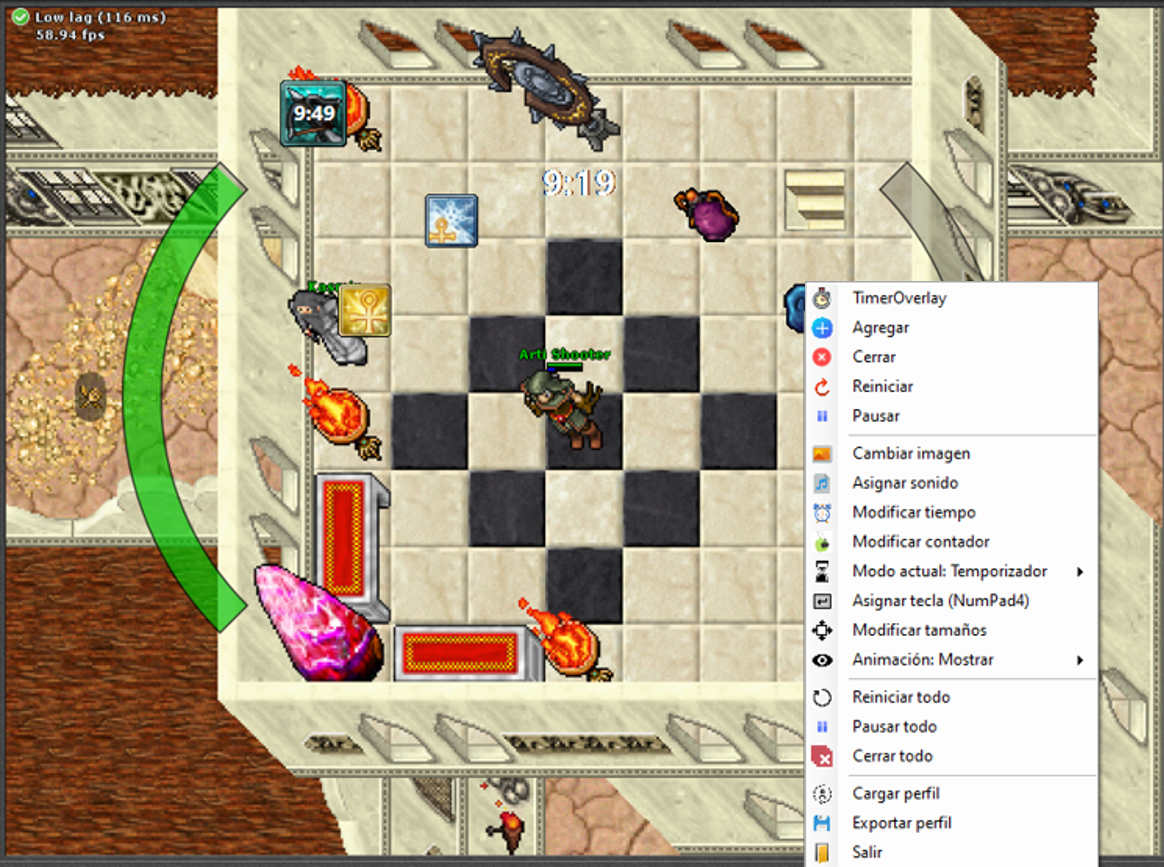
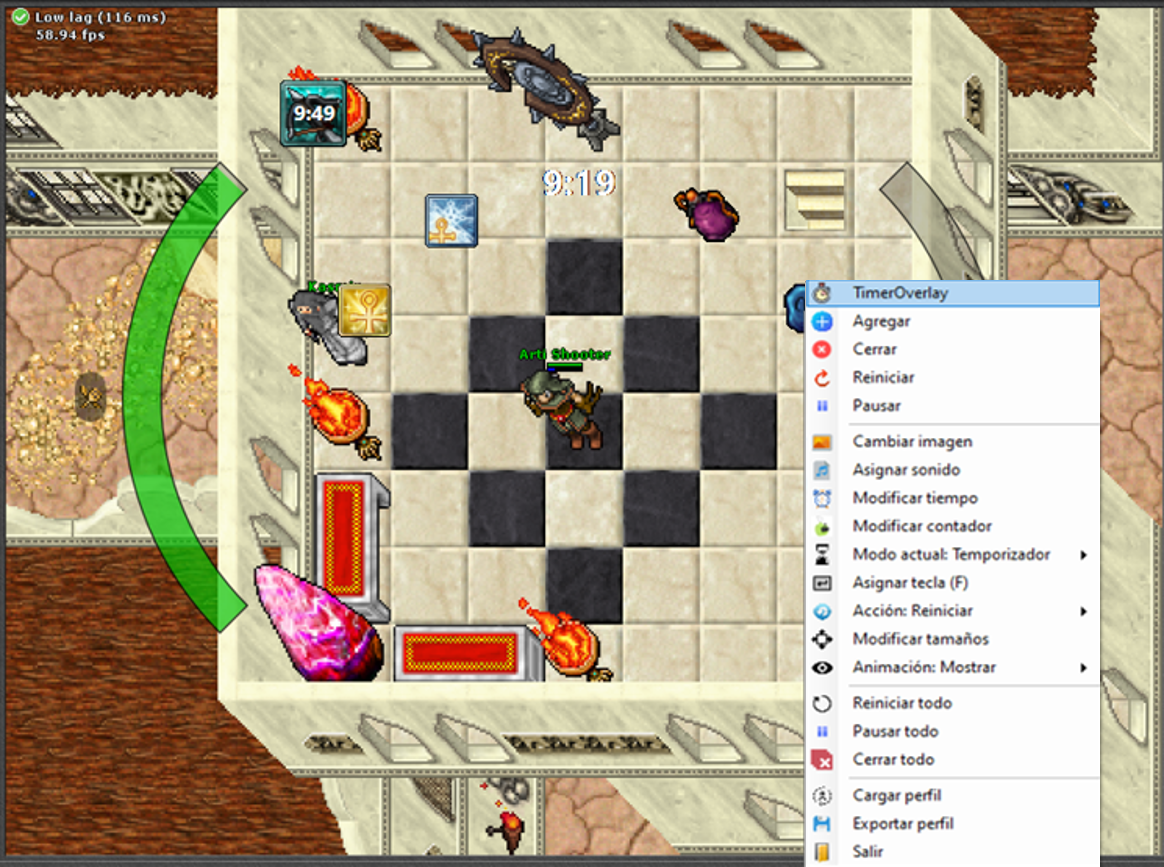
accion de reanudar pausar agregada

Changed region(s): [[0.6804, 0.3114, 0.9588, 0.9965], [0.9278, 0.6228, 0.9588, 0.7163], [0.9278, 0.4671, 0.9588, 0.5294]]

diff --git a/TimerOverlay/Form_TimerOverlay.cs b/TimerOverlay/Form_TimerOverlay.cs
@@ -42,6 +42,7 @@ namespace TimerOverlay
         private Keys teclaGlobal = Keys.None;
         private TipoFuncion tFuncion;
         private TipoAnimacion tAnimacion;
+        private TipoAccion tAccion;
 
         #region Constructores
         public Form_TimerOverlay(TimerData data)
@@ -83,7 +84,7 @@ namespace TimerOverlay
             }
             else
                 this.tFuncion = TipoFuncion.Temporizador;
-
+            
             // modo de animacion
             if (data.Animacion != null)
             {
@@ -91,6 +92,15 @@ namespace TimerOverlay
             }
             else
                 this.tAnimacion = TipoAnimacion.Ninguna;
+            
+            // modo de Accion
+            if (data.Accion != null)
+            {
+                this.tAccion = (TipoAccion)Enum.Parse(typeof(TipoAccion), data.Accion);
+            }
+            else
+                this.tAccion = TipoAccion.Reiniciar;
+
 
             this.teclaGlobal = (Keys)Convert.ToInt32(data.Tecla);
 
@@ -176,6 +186,7 @@ namespace TimerOverlay
             contextMenu.Items.Add(Menu_ModificarContador());
             contextMenu.Items.Add(Menu_CambiarModo());
             contextMenu.Items.Add(Menu_AsignarTecla());
+            contextMenu.Items.Add(Menu_CambiarAccion());
             contextMenu.Items.Add(Menu_ModificarTamaños());
             contextMenu.Items.Add(Menu_CambiarAnimacion());
 
@@ -188,7 +199,7 @@ namespace TimerOverlay
             contextMenu.Items.Add(Menu_CargarPerfil());
             contextMenu.Items.Add(Menu_ExportarPerfil());
             contextMenu.Items.Add(Menu_CerrarApp());
-
+            
             GlobalKeyboardHook.OnKeyPressed += GlobalKeyboardHook_OnKeyPressed;
             GlobalKeyboardHook.Start();
         }
@@ -271,10 +282,25 @@ namespace TimerOverlay
                     {
                         case TipoFuncion.Temporizador:
                         case TipoFuncion.Cronometro:
-                            if (estaEnCD)
-                                ReproduceSonido(sonidoCD);
-                            else
-                                Reiniciar();
+                            if (tAccion == TipoAccion.Reiniciar)
+                            {
+                                if(estaEnCD)
+                                    ReproduceSonido(sonidoCD);
+                                else
+                                    Reiniciar();
+                            }
+                            if (tAccion == TipoAccion.Pausar)
+                            {
+                                if (estaPausado)
+                                    Reanudar();
+                                else
+                                {
+                                    if (!timerRun.Enabled)
+                                        Reiniciar();
+                                    else
+                                        Pausar();
+                                }
+                            }
                             break;
                         case TipoFuncion.ContadorIncremental:
                             FormateaContador();
@@ -537,8 +563,9 @@ namespace TimerOverlay
                         Ancho = timer.ancho,
                         TamañoFuente = timer.tamFuente,
                         Animacion = timer.tAnimacion.ToString(),
-                        SonidoCD = timer.sonidoCD
-                    });
+                        SonidoCD = timer.sonidoCD,
+                        Accion = timer.tAccion.ToString()
+                    }); ;
                 }
             }
 
@@ -1305,19 +1332,6 @@ namespace TimerOverlay
 
             return aboutItem;
         }
-
-        private void InitializeComponent()
-        {
-            this.SuspendLayout();
-            // 
-            // Form_TimerOverlay
-            // 
-            this.ClientSize = new System.Drawing.Size(124, 84);
-            this.Name = "Form_TimerOverlay";
-            this.ResumeLayout(false);
-
-        }
-
         private ToolStripMenuItem Menu_CerrarCuadros()
         {
             var cerrartodos = new ToolStripMenuItem("Cerrar todo")
@@ -1401,6 +1415,52 @@ namespace TimerOverlay
 
             ActualizarTextoModo();
             return cambiarAnimacion;
+        }
+        private ToolStripMenuItem Menu_CambiarAccion()
+        {
+            var cambiarAccion = new ToolStripMenuItem("Cambiar acción");
+
+            // Subopciones
+            var mReiniciar = new ToolStripMenuItem("Reiniciar");
+            var mPausarReanudar = new ToolStripMenuItem("Pausar/Reanudar");
+
+            // Acción genérica para cambiar de modo
+            void CambiarAccion(TipoAccion accion)
+            {
+                tAccion = accion;
+                ActualizarTextoModo(); // si quieres que el texto cambie con el modo actual
+            }
+
+            // Eventos click de cada subopción
+            mReiniciar.Click += (s, e) => CambiarAccion(TipoAccion.Reiniciar);
+            mReiniciar.Image = Properties.Resources.iconoRestart;
+
+            mPausarReanudar.Click += (s, e) => CambiarAccion(TipoAccion.Pausar);
+            mPausarReanudar.Image = Properties.Resources.iconoPlayStop;
+
+            // Añadir subopciones al menú principal
+            cambiarAccion.DropDownItems.Add(mReiniciar);
+            cambiarAccion.DropDownItems.Add(mPausarReanudar);
+
+            // Actualizar texto/ícono si deseas reflejar el modo actual
+            void ActualizarTextoModo()
+            {
+                switch (tAccion)
+                {
+                    case TipoAccion.Reiniciar:
+                        cambiarAccion.Text = "Acción: Reiniciar";
+                        cambiarAccion.Image = Properties.Resources.iconoRestart;
+                        break;
+
+                    case TipoAccion.Pausar:
+                        cambiarAccion.Text = "Acción: Reanudar";
+                        cambiarAccion.Image = Properties.Resources.iconoPlayStop;
+                        break;
+                }
+            }
+
+            ActualizarTextoModo();
+            return cambiarAccion;
         }
         #endregion               
     }

diff --git a/TimerOverlay/Properties/Resources.Designer.cs b/TimerOverlay/Properties/Resources.Designer.cs
@@ -223,6 +223,16 @@ namespace TimerOverlay.Properties {
         /// <summary>
         ///   Looks up a localized resource of type System.Drawing.Bitmap.
         /// </summary>
+        internal static System.Drawing.Bitmap iconoPlayStop {
+            get {
+                object obj = ResourceManager.GetObject("iconoPlayStop", resourceCulture);
+                return ((System.Drawing.Bitmap)(obj));
+            }
+        }
+        
+        /// <summary>
+        ///   Looks up a localized resource of type System.Drawing.Bitmap.
+        /// </summary>
         internal static System.Drawing.Bitmap iconoReiniciar {
             get {
                 object obj = ResourceManager.GetObject("iconoReiniciar", resourceCulture);
@@ -236,6 +246,16 @@ namespace TimerOverlay.Properties {
         internal static System.Drawing.Bitmap iconoReiniciarTodo {
             get {
                 object obj = ResourceManager.GetObject("iconoReiniciarTodo", resourceCulture);
+                return ((System.Drawing.Bitmap)(obj));
+            }
+        }
+        
+        /// <summary>
+        ///   Looks up a localized resource of type System.Drawing.Bitmap.
+        /// </summary>
+        internal static System.Drawing.Bitmap iconoRestart {
+            get {
+                object obj = ResourceManager.GetObject("iconoRestart", resourceCulture);
                 return ((System.Drawing.Bitmap)(obj));
             }
         }

diff --git a/TimerOverlay/models/TimerData.cs b/TimerOverlay/models/TimerData.cs
@@ -19,5 +19,6 @@ namespace TimerOverlay
         public int TamañoFuente { get; set; }
         public string Animacion { get; set; }
         public string SonidoCD { get; set; }
+        public string Accion { get; set; }
     }
 }

diff --git a/TimerOverlay/models/TimersEnums.cs b/TimerOverlay/models/TimersEnums.cs
@@ -16,5 +16,8 @@ namespace TimerOverlay
         {
             Ninguna, Mostrar, Parpadear, MostrarConCD, ParpadearConCD
         }
+        public enum TipoAccion  {
+            Reiniciar, Pausar
+        }
     }
 }
